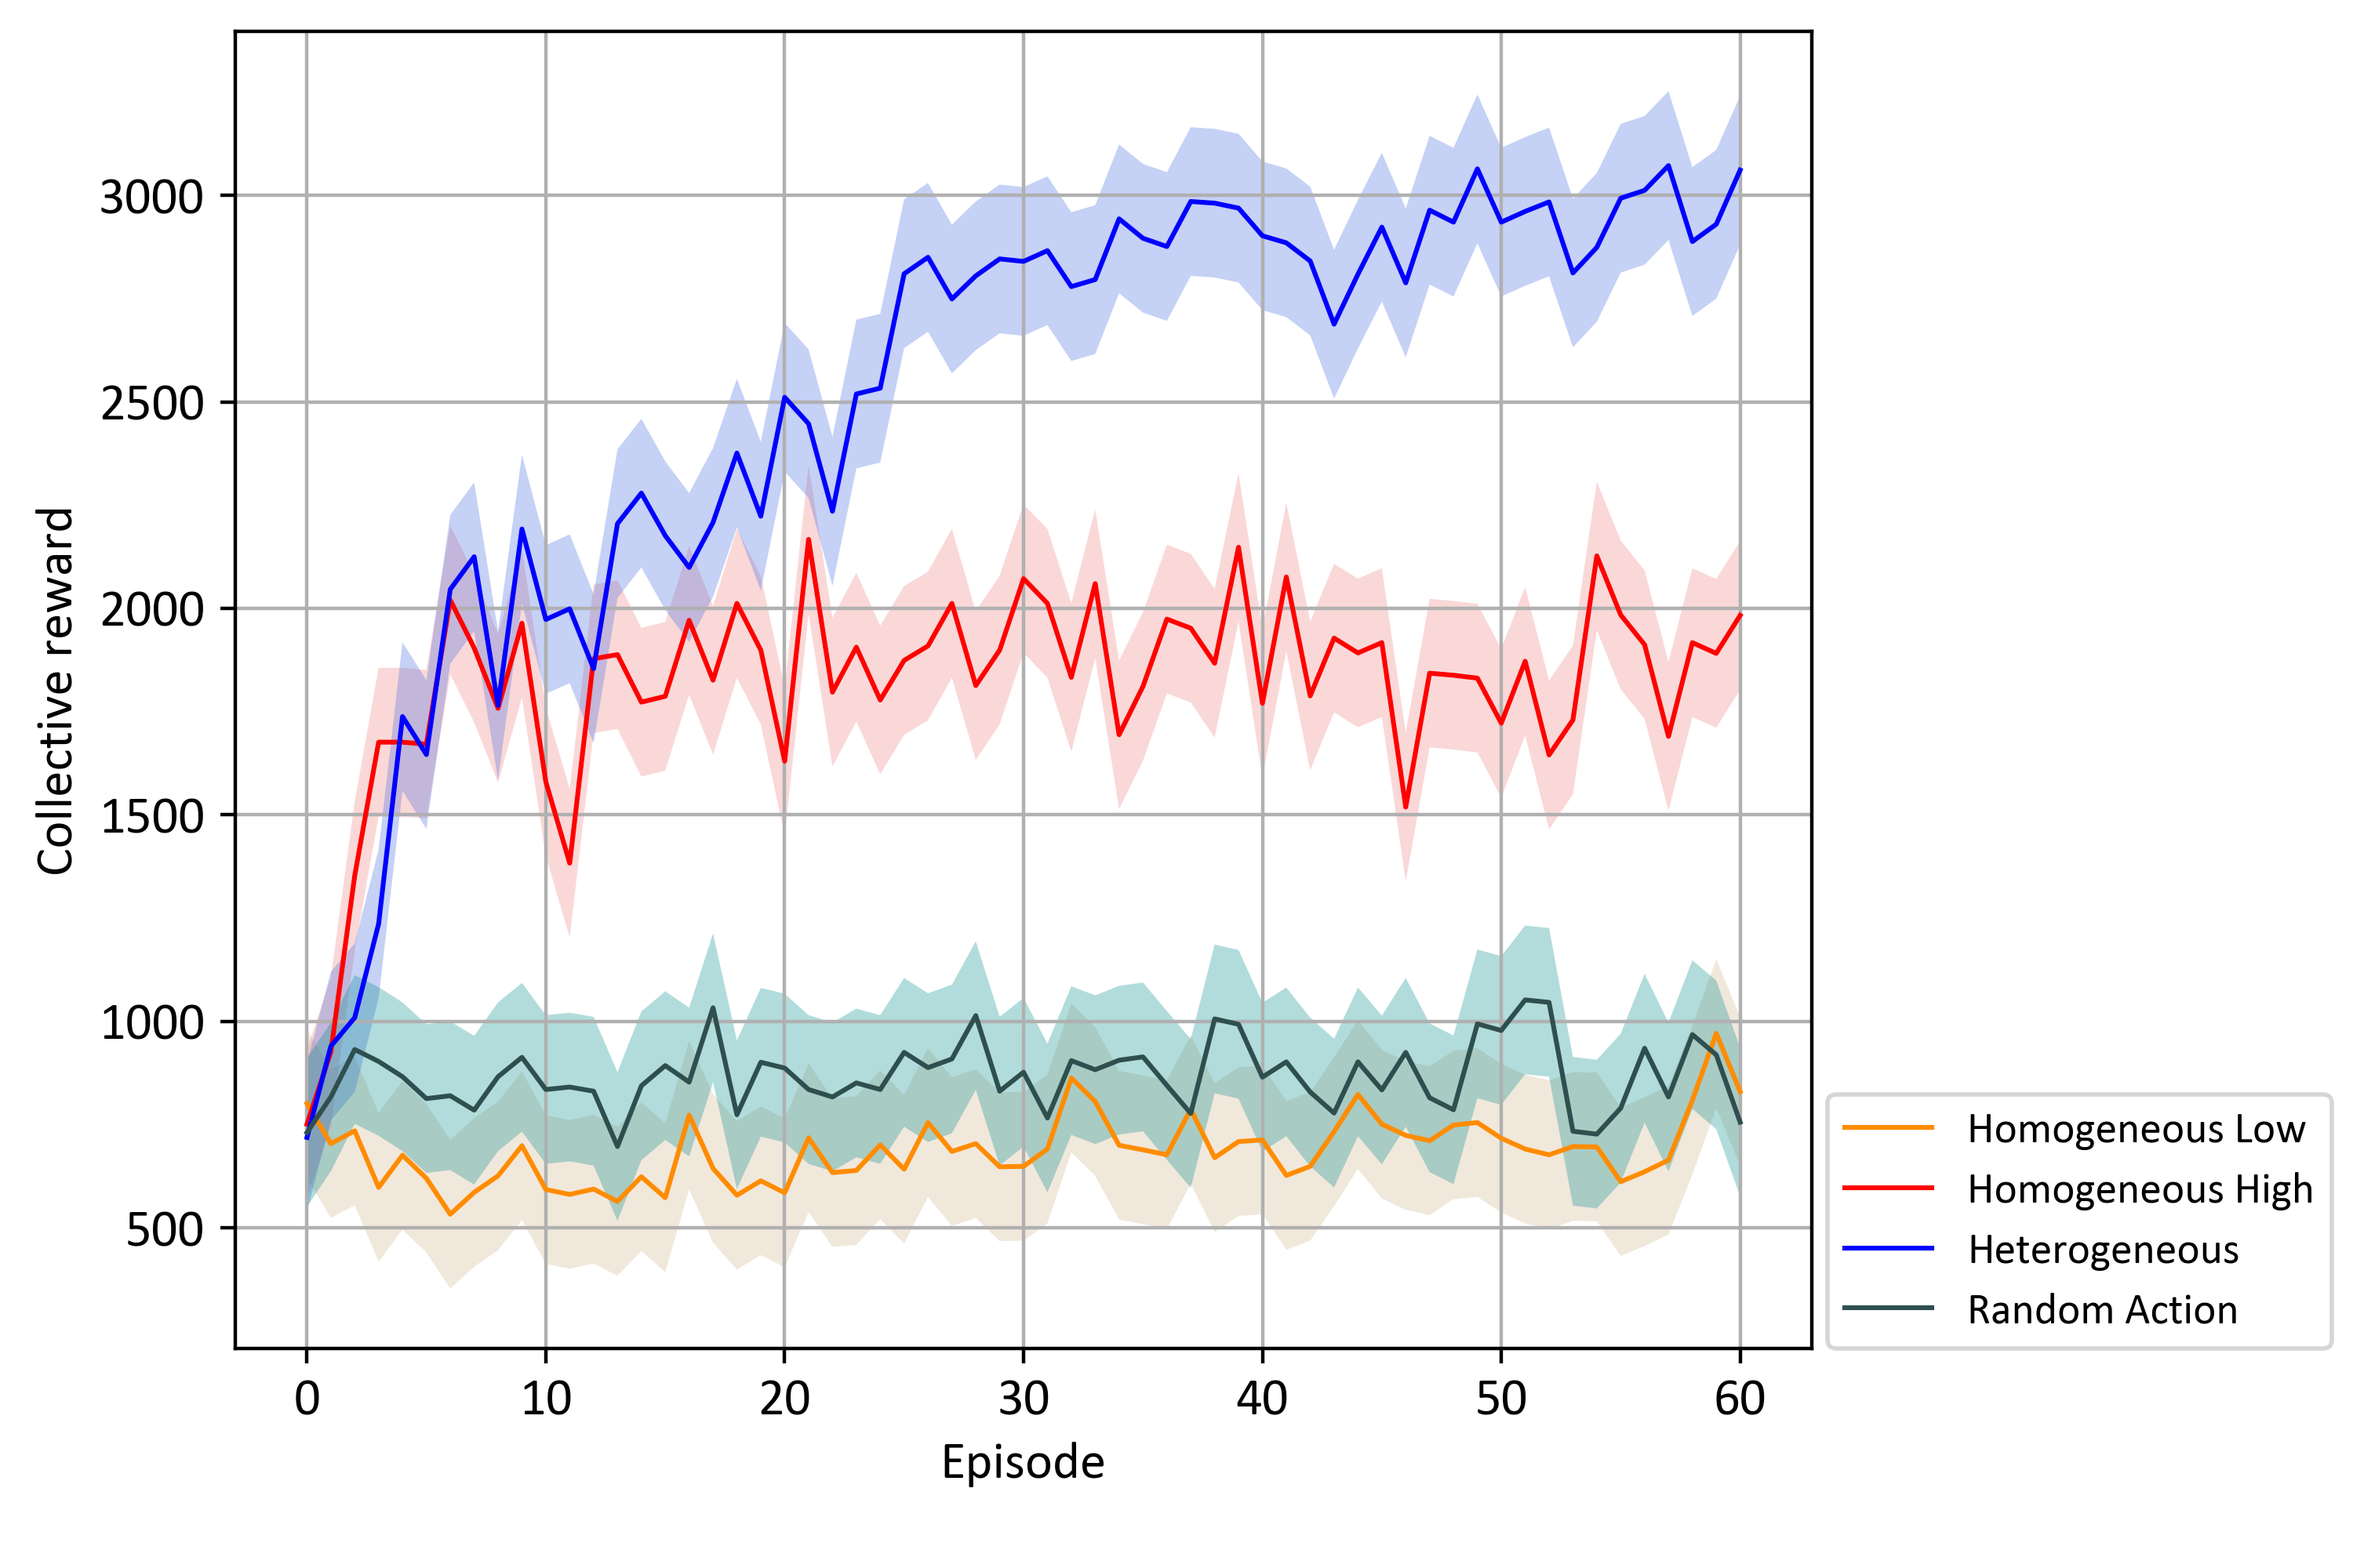
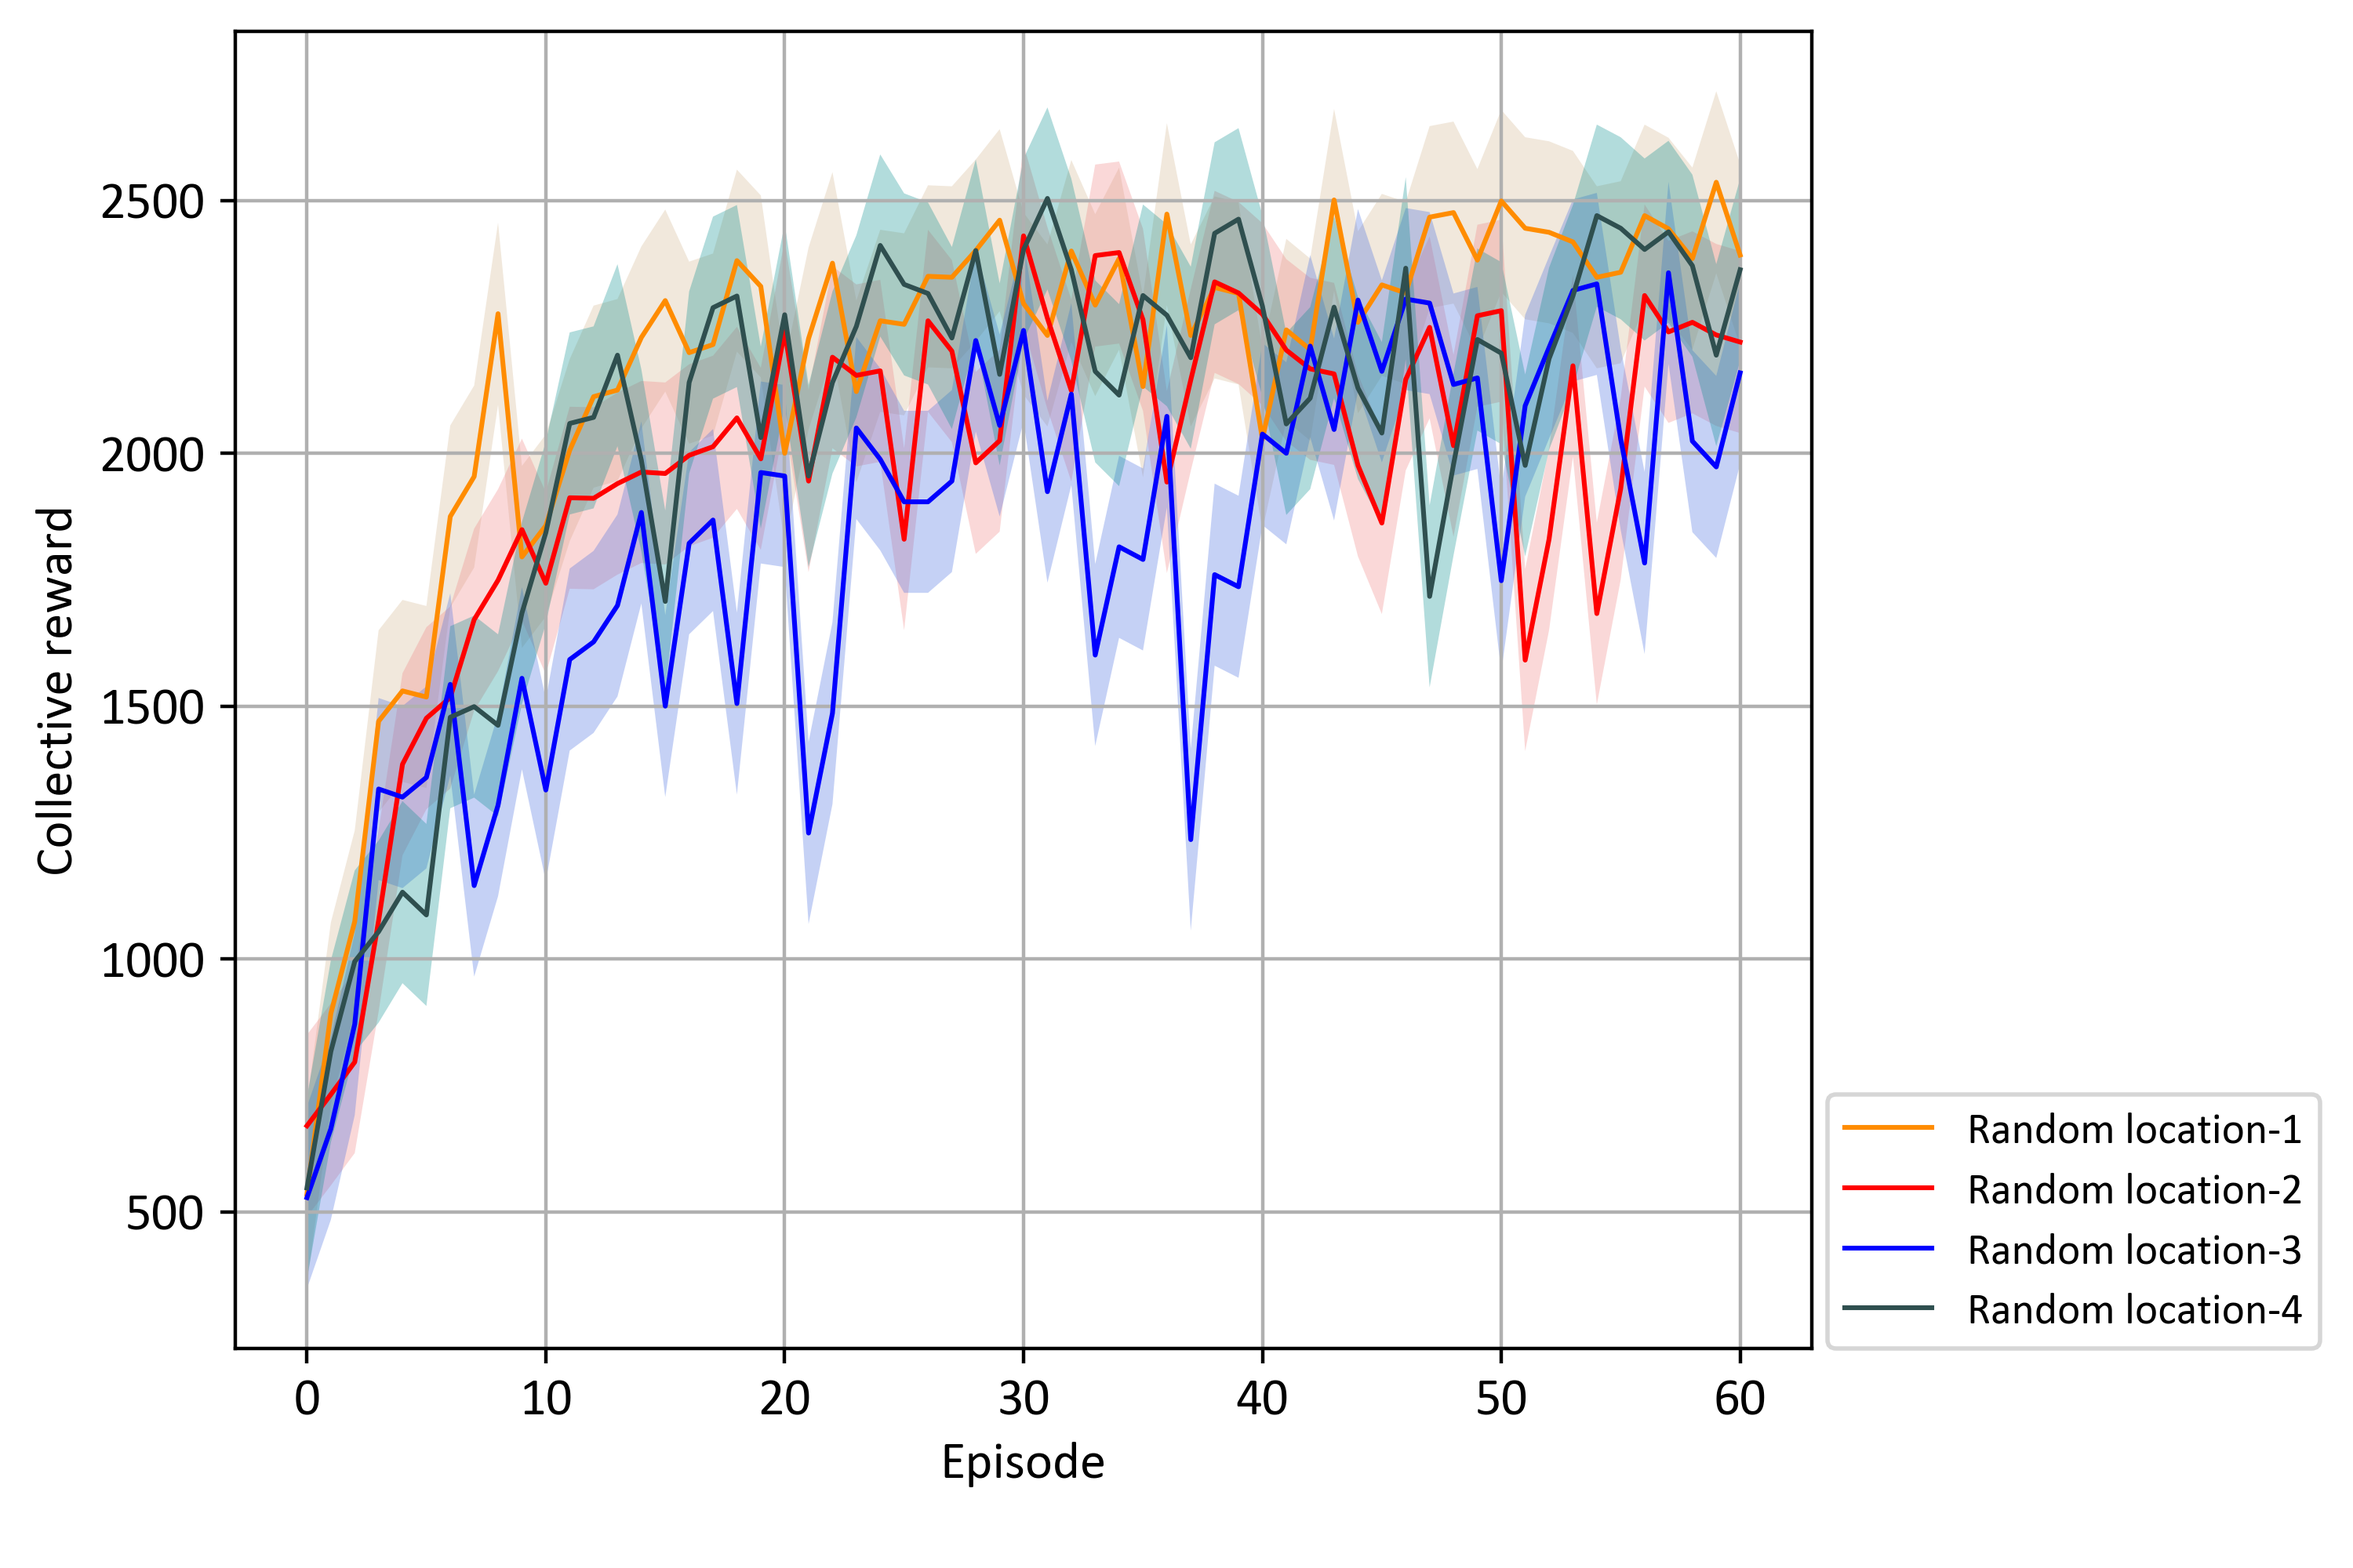
add

diff --git a/Draw_plot.py b/Draw_plot.py
@@ -47,19 +47,19 @@ Model_randLocation_2 = list(pd.read_csv(path + 'Model_randLocation_2/ApplesColle
 Model_randLocation_3 = list(pd.read_csv(path + 'Model_randLocation_3/ApplesCollection.csv', index_col=False)['result'])
 
 "同质性与异质性比较"
-compareList = [Model_1_h, Model_2_h, Model_3_h, Model_Random]
-# compareList = [Model_3, Model__randLocation, Model_randLocation_2, Model_randLocation_3]
+# compareList = [Model_1_h, Model_2_h, Model_3_h, Model_Random]
+compareList = [Model_3, Model__randLocation, Model_randLocation_2, Model_randLocation_3]
 
 y_label = 'Collective reward'  # y坐标轴名称
 x_label = 'Episode'  # x轴名称
-label_list = ['Homogeneous Low', 'Homogeneous High', 'Heterogeneous', 'Random Action']
-# [2, 3, 4, 5]
 # label_list = ['Homogeneous Low', 'Homogeneous High', 'Heterogeneous', 'Random Action']
+# [2, 3, 4, 5]
+label_list = ['Random location-1', 'Random location-2', 'Random location-3', 'Random location-4']
 # [0, 1, 2, 4]
-figPath = 'Apple_h.png'  # 存储图像的地址
+figPath = 'Apple_lr.png'  # 存储图像的地址
 
 draw_list(plot_list=compareList, y_lable=y_label, x_lable=x_label, figPath=figPath,
-          label_list=label_list, colorIndex=[0, 1, 2, 4])
+          label_list=label_list, colorIndex=[2, 3, 4, 5])
 
 
 # "改变学习率与固定学习率"
